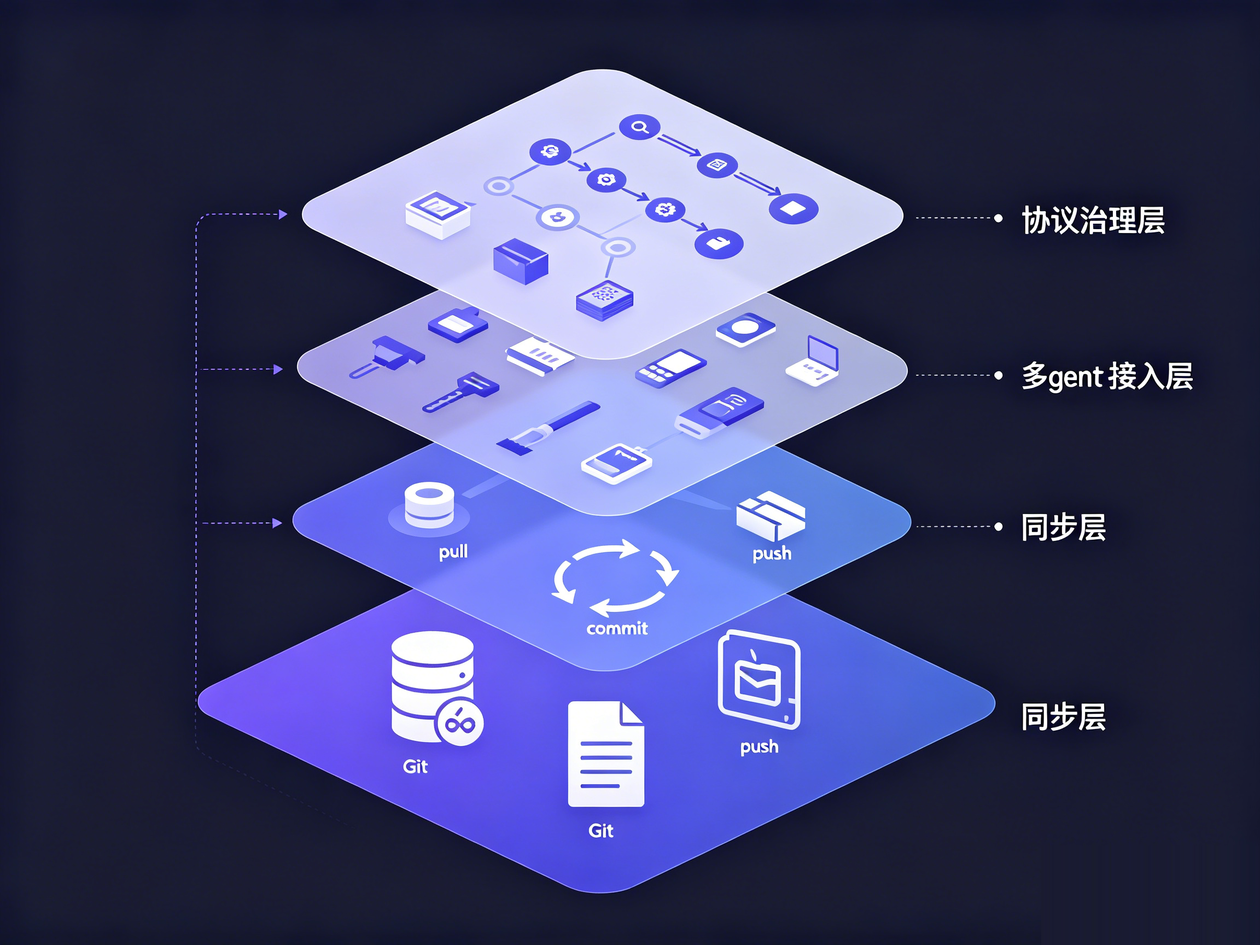
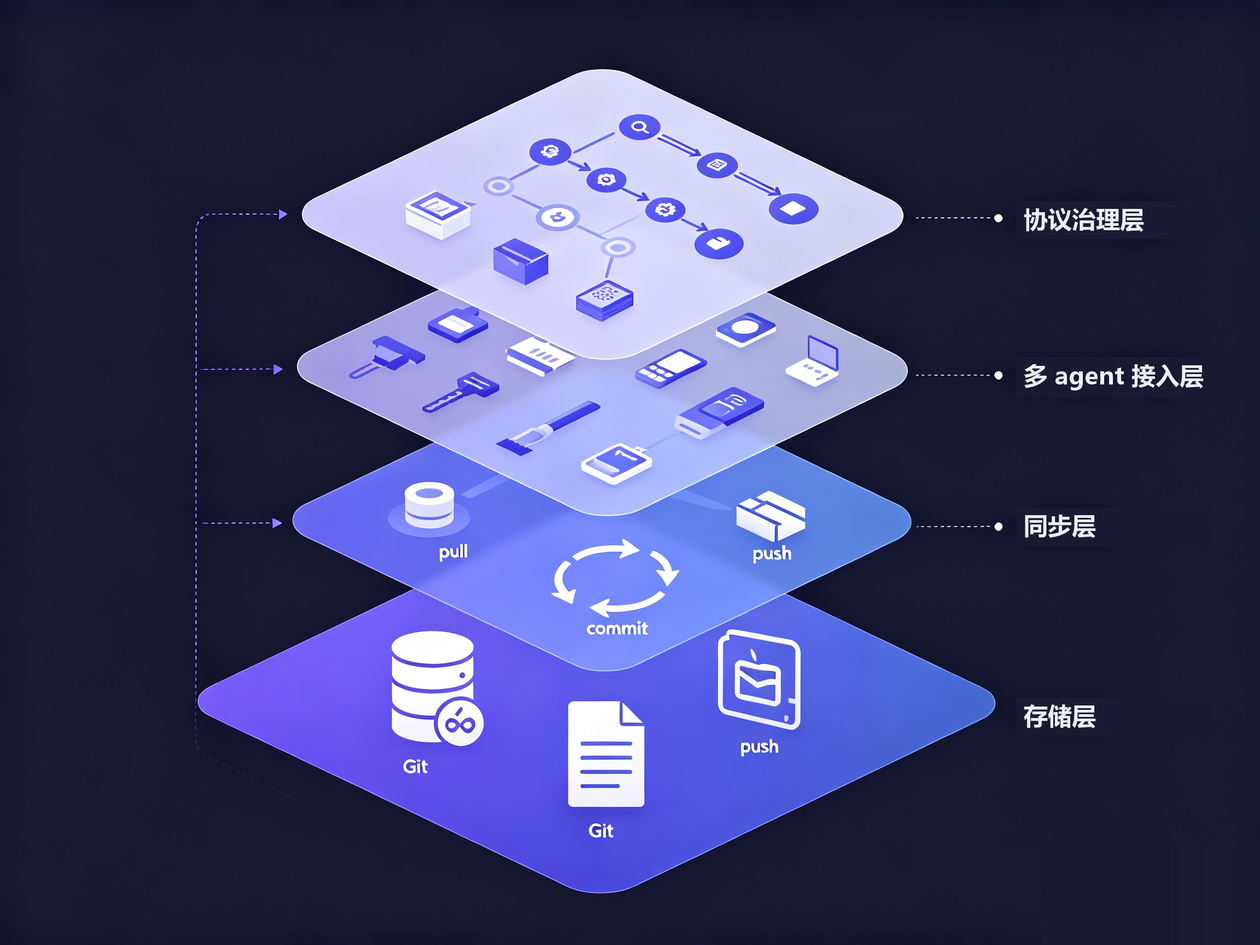
docs(blog): 英文版 4 篇 + Blog 索引 + 修复两张配图文字
- 新增 4 篇英文获客文章(overview/痛点/类别/故事),复用同一组配图
- docs/README.md 与 llms.txt 增加 Blog 索引区,利于收录引流
- 修复 AI 生图文字:架构图底层"同步层"→"存储层"、"多gent"→"多 agent";
  类别封面"协议合换议网络"→"协议网络"

diff --git a/docs/blog/16-agents-one-brain.md b/docs/blog/16-agents-one-brain.md
@@ -1,0 +1,92 @@
+# I gave 16 AI agents one shared brain, using nothing but git
+
+> Candidate titles:
+> - I gave 16 AI agents one shared brain, using nothing but git
+> - No server, no database: I used git to give a swarm of AIs the same memory
+> - Agents on Windows, Mac, Linux, and Android all take notes in the same book
+
+![Four devices arranged in a circle, a glowing brain made of circuitry at the center](images/story-cover-nw.png)
+
+It all started with a gripe.
+
+I'd spent time on Windows getting a project's context just right with Claude Code. Then I turned to my Mac, and Codex over there knew nothing. I had to explain the whole thing again from scratch. Switch to the little Linux box at home, and it was another blank slate. I had four or five machines and agents from several different vendors, and every single one was an amnesiac. I was the guy stuck reciting the same medical history over and over.
+
+The most ridiculous moment: on machine A, I'd had an agent write down "the deploy script for this project has a nasty gotcha." The next day, the agent on machine B went and stepped on that exact same rake, in earnest.
+
+And that's before you factor in that the tools themselves keep changing. These past couple of years there's been a new "current best" model showing up almost every month. I went from Cursor to Claude Code, then tried Codex, then Gemini. Whenever something shipped a new version, I wanted to play with it. And every switch meant re-teaching that project's background and rules all over again. New tool, new model, new computer: my agent was forever stuck on "nice to meet you."
+
+I'd even thought about worse cases. What if one day some tool became unusable because of policy or a regional restriction? What if I had to move everything over to a domestic Chinese model? I didn't want the context I'd worked so hard to build up to be chained to any one tool I didn't control. Switching tools is fine. Teaching it all again from zero is not.
+
+I tried stuffing the memory into the various built-in schemes that come with the tools, and I tried hanging a dedicated memory service off to the side. The problem was they were either locked to one vendor or one machine, or they meant standing up a service, wiring in a database, managing accounts. I just wanted a few agents to share some notes. Why should I have to run a whole backend for that?
+
+Later I sat staring at the `git status` on my screen for a while, and it suddenly clicked. The thing I use every day, the most rock-solid, cross-platform, built-from-birth-to-handle-multi-person-conflict sync tool, was right there in my hand.
+
+Memory is, at its core, a pile of text. And the best home for text is git.
+
+![A filing cabinet where each robot only drops notes into its own drawer, never touching anyone else's](images/story-drawers-nw.png)
+
+## Version one: write the memory as markdown, throw it in a single repo
+
+The idea was almost embarrassingly simple. Open a git repo, fill it with plain markdown, and let that repo be the single source of truth. Every agent pulls before it works, and commits and pushes when it's done. No server, no API, no hosting. Just git.
+
+The moment it worked was genuinely a thrill. On Windows I had an agent write down a decision, switched to the Mac, ran a pull, and Codex read it instantly. Two agents from two different vendors, standing on the same context for the first time.
+
+The thrill didn't last long. A few very practical problems came crawling out.
+
+## Problem 1: with 16 agents all writing, won't they fight?
+
+This was my biggest worry. Right now I've got Windows, macOS, several Linux machines, and even an Android phone, more than 16 agent instances all told. If they're all writing into one repo at the same time, surely git conflicts would be flying everywhere.
+
+The answer, it turns out, is physical isolation. Every machine, every agent, owns only its own directory, and writes only to its own directory.
+
+The path looks like this: `agents/<host>/<agent-id>/`, for example `agents/desktop-rkv5ls4/claude-i5bc/`. Claude on Windows writes to its cell, Codex on the Mac writes to its cell, and nobody touches anybody else's private memory. A conflict requires two people editing the same line, and this layout means they aren't even writing in the same file to begin with.
+
+And if there really is a collision? The protocol hardcodes a rule: in your own directory, conflicts take local; in someone else's directory, conflicts take remote; for the upstream-managed common parts, the rules and the shared memory, take remote. Whoever owns it decides. The machine doesn't have to guess.
+
+## Problem 2: syncing across machines, won't things get lost or collide?
+
+Splitting up the directories isn't enough on its own. When two machines push one right after the other, that little sliver of time in between can still cause trouble.
+
+The thing that handles this is atomic sync on every write. Each time an agent does a Write/Edit, it runs `pull --rebase` before writing, then commits and pushes immediately after, retrying automatically on failure. I'm not typing this out by hand every time; it runs automatically once the hooks are installed.
+
+The effect is that the real race window gets squeezed down to the tiny instant of a single write. I've been using it this long, and losing memory across machines or having two machines collide just hasn't happened again. Installing it is a single line:
+
+```bash
+bash scripts/install/claude.sh
+```
+
+Same goes for codex and gemini. Once the hooks are in, you barely feel the pull / commit / push happening at all.
+
+## Problem 3: the protocol will get upgraded, will my own stuff get wiped out?
+
+This was a hidden risk I only realized later. The protocol itself iterates. How directories are split, how the rules are written, upstream nestwork updates all of it. If I'd forked it, every sync from upstream would mean a manual merge, and one wrong move could wipe out the strategy I'd built up over months, every agent's private memory, the team's shared memory, all of it gone.
+
+What nestwork does is inherit via GitHub's Use this template, not fork. The protocol skeleton is inherited, but your private repo is an independent branch from day one. Upstream updates the protocol through its own update script, which touches the protocol layer and can't touch your `agents/`, `shared/`, or `strategy/`. My own stuff sits safely in its own repo.
+
+"Clone and you're in" means the same thing. A new machine shows up, you clone it down, run the install script, and the agents on that machine automatically join the same brain.
+
+## An unexpectedly handy thing: agents can leave each other notes
+
+I should say a word about the layering. The protocol sets a very rigid priority chain: rules > strategy > shared memory > each agent's private memory > projects > methodology. When there's a conflict, you don't blend the two together; you pick the higher-priority one and drop the other. It's because of this chain that 16 agents don't all run off in their own directions. They're reading the same "constitution."
+
+What genuinely delighted me was the agent mailbox that got added later. Agents can leave each other asynchronous notes, git-native. The agent on machine A finishes a chunk of work and leaves the agent on machine B a line: "I'm done with this part, you take it from here." When B starts up, it picks up the unread message automatically. The whole thing has no message queue and no service. It's just writing a file into the repo and pushing it up. The first time I watched one agent reach out and read a note a colleague had left on another machine, the feeling was pretty surreal.
+
+![Two robots across a phone from each other, an envelope flying along the git line between them, an unread red dot above the receiver's head](images/story-mailbox-nw.png)
+
+As for secrets, I'll admit I hesitated at first, since everything you feed an agent is project insider info. Then I worked it through. nestwork's memory is a private repo I built with Use this template, on my own git from start to finish, with no third party in the loop. For the deeper secrets, I layered on git-crypt on top, encrypting before anything goes into the repo, so even though the repo is hosted on GitHub, what lands there is ciphertext. The data is mine, and so are the keys. That's what made me willing to write the real stuff in.
+
+## You can start this way too
+
+Looking back, the reason this thing works is precisely that it never tried to reinvent anything. Memory is markdown, sync is git, inheritance rides on templates, conflicts are handled by directory isolation. Every piece is old, long-validated stuff. It's just been assembled into a new use.
+
+It's not a storage tool, it's not a hosting service, it needs no server, and it works with markdown-configured agents like Claude Code, Codex CLI, Gemini CLI, Hermes, and OpenClaw. I really am using it every day, across four or five machines and 16 agents.
+
+If you're also sick of reciting the same thing to your agents on every machine:
+
+- GitHub: songth1ef/nestwork, give it a star if you find it interesting
+- Get in: click Use this template on GitHub to inherit the protocol, then clone it down
+- Install: `bash scripts/install/claude.sh` (same for codex / gemini)
+
+Let your agents start taking notes in the same book, starting today.
+
+<!-- story angle: credible-story | humanized | EN -->

diff --git a/docs/blog/nestwork-overview.md b/docs/blog/nestwork-overview.md
@@ -1,0 +1,99 @@
+# nestwork: one shared brain for all your AI agents, across machines and vendors
+
+> Title candidates:
+> - nestwork: one shared brain for all your AI agents
+> - One git repo that holds the memory of every machine and every agent you run
+> - Not another memory database, a protocol for multi-agent collaboration
+
+![nestwork: many agents sharing one brain across devices and vendors](images/nestwork-overview-cover-nw.png)
+
+You have probably lived through this. You brief a project to Claude Code on your laptop, then you switch to your desktop, open Codex, and it knows nothing. So you re-explain the conventions, the background, the traps you already hit.
+
+And that is before you account for tools changing constantly. Almost every month there is a new "current best" model. You went from Cursor to Claude Code, then tried Codex, then Gemini. Sometimes the switch is not even your call: policy, region, account, price, and one day the tool you depend on just stops working for you. Every switch drops your agent back to "nice to meet you."
+
+nestwork exists for exactly this. In one sentence: it turns the memory of all your agents into plain text inside a git repo you own, so they share one brain across machines, across tools, and across vendors.
+
+It is not a tool, not a hosted service, and it needs no server. It is a protocol. Here is everything it does, laid out in one pass.
+
+![nestwork architecture: the git repo layer, sync layer, multi-agent access layer, and protocol governance layer](images/nestwork-overview-architecture-nw.png)
+
+## 1. Memory is just markdown in git
+
+The foundation of nestwork is almost counterintuitively simple: all memory is plain markdown files in a git repo, and that repo is the single source of truth. An agent pulls before it works, then commits and pushes when it is done. No database, no backend, no account to sign up for.
+
+Because memory is plain text, you can open it, edit it, or roll it back at any time with any editor or any git tool. It reads for humans and it reads for agents. How a piece of memory came to be, and when it changed, is right there in the git log.
+
+## 2. One shared memory, across machines and vendors
+
+Since sync rides on a git remote, the agents on your laptop, your desktop, a few Linux boxes, even an Android phone, all live in the same brain as long as they can push. They do not need to sit on the same machine, and nobody has to open a port for anyone.
+
+What it is compatible with is a whole class of agents: Claude Code, Codex CLI, Gemini CLI, Hermes, OpenClaw, and other markdown-configured tools. The same memory reads fine no matter who shows up.
+
+This is exactly what catches the moving-tools problem. Binding your memory to one tool is a bet that the tool never gets retired and never becomes unusable. Plain text bound to git is not picky about tools: the day you want to move wholesale from an overseas tool to a domestic model, the context stays put, and the only thing you swap is the agent reading it.
+
+## 3. Inherit it in one click, and the memory lives in your own repo
+
+Onboarding is git's native tongue. Click Use this template on GitHub and you inherit the whole protocol skeleton; clone it and you are connected.
+
+There is an underrated point here: what you inherit is a private repo of your own. From day one the memory lives in your hands, not parked in some vendor's backend. With a hosted memory service, you hand the context over and it sits in someone else's store; with nestwork, ownership of the data never leaves you.
+
+Inheriting instead of forking has another upside. When upstream updates the protocol, it goes through its own update flow that touches the protocol layer and cannot touch your private memory. The strategy you built up over months, and each agent's memory, will not get wiped by a single upstream sync.
+
+## 4. Private, and encryptable, so you dare to write the real stuff
+
+Putting memory in a private repo is only the first layer. For genuine secrets, you can stack git-crypt on top and encrypt before anything enters the repo. Even if the repo is hosted on GitHub, what lands there is ciphertext; the plaintext is unreadable. The data is yours, and so is the key.
+
+For anyone who wants to feed an agent project internals, internal war stories, or business judgment, this is not a nice-to-have. It is the precondition for daring to use it at all.
+
+## 5. The hard part is "how do a pile of agents not fight"
+
+If this were only "use git to store markdown," it would be a clever little trick. What nestwork actually thought through is the dirty work of many agents on many machines working at the same time.
+
+Write isolation. Every machine and every agent owns, and only writes, its own directory, with a path that looks like this: agents/<host>/<agent-id>/. Nobody writes into the same file as anyone else, so conflicts have nowhere to start. And if a collision does happen, the conflict resolution rules are hardcoded: take local for your own directory, take remote for someone else's directory, take remote for the upstream-managed shared layers. Whoever owns it decides.
+
+Atomic sync. Pull --rebase before every write, commit and push after, with automatic retry on failure. This runs on its own once the hooks are installed, which squeezes the race window down to the single instant of one write, instead of leaving the whole session wide open.
+
+Layered priority and resolution. Memory is ranked: behavior rules > strategy > shared memory > each agent's private memory > projects > methodology. When two instructions conflict, the higher-priority one wins, and you do not blend the two together. It is this chain that keeps a dozen-plus agents behaving consistently, all reading the same "constitution."
+
+Distillation. How do the scattered private observations of each agent settle into facts the whole fleet shares? Through a distillation flow: first a sub-agent reviews for sensitive data, contradictions, and stale entries, then a human confirms, and finally it is merged into shared memory non-destructively, merge and add only, never deleting the original records.
+
+Agents can leave each other notes. There is a built-in git-native mailbox. An agent on machine A finishes a stretch and leaves a line for the agent on machine B: "I'm done with this part, you take it from here," and B picks up the unread note automatically when it starts. No message queue, no service, just write a file into the repo and push it up.
+
+![multiple agents each tending their own square, collaborating in order and leaving each other notes through the mailbox](images/nestwork-overview-coordination-nw.png)
+
+## 6. It is a protocol, so it governs more
+
+Calling it a protocol is not just rhetoric. Beyond storing and syncing, it also lays down a full set of rules for "how to use memory."
+
+Auto-injection at startup. Tools with hooks installed pull automatically at the start of every session and inject the behavior rules, the current strategy, shared memory, this agent's private memory, and the relevant methodology into context together. You do not have to dig through a pile of files by hand.
+
+There are explicit rules for where memory goes. Project conventions and lessons go into the project's own docs, cross-project reusable methodology goes into workflow, the current project's business and decisions go into projects, cross-device protocol goes into the agent's private memory, and stable cross-agent facts go into shared memory. Knowledge has a fixed home, so it does not turn into a mess.
+
+Oversized files split automatically. Any markdown that goes past its line limit gets split by topic into an "index plus sub-files," keeping each file focused so agents retrieve more accurately.
+
+Version governance. The protocol marks its evolution with MAJOR.MINOR, a private instance can pin a version it trusts, and it can also override the default line limit with a local file. It behaves like a spec that iterates, not a static piece of software.
+
+## 7. And there is more (optional, turn it on when you need it)
+
+- If you use claude-mem, nestwork will export its observations at the end of a session and push them along with your memory, giving its notes cross-machine reach too.
+- High-frequency, bulky artifacts like local history are stored on a separate orphan branch per agent, keeping the main branch lean so it does not balloon over time.
+- When you absorb content from an external working directory into nestwork, there is a contract with desensitization rules, so secrets do not get hauled in naked.
+
+## Getting started
+
+Head to GitHub: songth1ef/nestwork. If you find it useful, give it a star first.
+
+```bash
+# 1. Click Use this template on GitHub to create your own private repo
+# 2. Clone it down
+# 3. Install hooks for each tool
+bash scripts/install/claude.sh
+bash scripts/install/codex.sh
+bash scripts/install/gemini.sh
+```
+
+Once that is done, pull / commit / push all run automatically. You use your agents as usual, except this time, switch machines, switch tools, switch models, and they still remember.
+
+Try it for a week on two devices and two tools. The day you change machines, or move from one tool to another, and you open an agent and it picks up yesterday's work mid-sentence, you will get why this matters.
+
+<!-- nestwork overview | EN -->

diff --git a/docs/blog/agent-amnesia-cross-device.md b/docs/blog/agent-amnesia-cross-device.md
@@ -1,0 +1,95 @@
+# Your AI agent forgets everything the moment you switch devices
+
+> Candidate titles:
+> - Your AI agent forgets everything the moment you switch devices
+> - One git repo, 16 agents, one shared notebook
+> - Stop re-explaining context to your agent
+
+![A developer in front of four devices, a confused robot on each screen, question marks floating above all of them](images/amnesia-cover-nw.png)
+
+Last night, on my laptop, I walked Claude Code through a project in full detail. The stack, the naming conventions, the handful of traps we couldn't step on, why we'd given up on a certain approach last time. The conversation was flowing.
+
+This morning I sat down at my desktop, opened Codex, and tried to pick up where I left off. It remembered nothing.
+
+Coding conventions? Explain them again. Project background? Explain it again. "That directory I told you not to touch last time"? It had no idea there was a last time. I sat there typing the whole thing out a second time.
+
+You probably know this scene. Switch machines, switch tools, switch projects, or even just let a few days pass, and your AI assistant acts like it's been wiped clean, politely and completely amnesiac.
+
+And these past couple of years, machines aren't the only thing you've been switching. Almost every month someone ships the "current strongest" model. You're using Cursor and start wanting to try Claude Code; a while later Codex drops a new version and you want to jump again; Gemini updates and you circle back to take another look. Every tool switch means retraining the thing on your project background, your coding conventions, the traps you've already fallen into. Add a new computer on top of that and you're starting from zero again. The tools change, the models change, the machines change, and the only constant is that pile of context you keep having to re-explain, spinning in place.
+
+Sometimes the tool switch isn't even your call. Policy, regional restrictions, accounts, pricing. The day the tool you lean on heavily suddenly stops working, your memory, if it's tied to that tool, goes down with it. Including the day you decide to move everything over to a domestic (for example, a Chinese) model. You want the thing you swap out to be the tool, not another from-scratch teaching session.
+
+## Amnesia is a tax you keep paying
+
+We tend to treat it as a "fine, I'll say it again" kind of nuisance. It's actually a tax.
+
+Re-explaining context every day is a time tax. The lesson Claude Code learned on this machine is completely unknown to Codex on that machine, which is wasted knowledge. The sneakier part is that you can't even remember everything you told it last time, so the agent works off broken context and gets things wrong with total confidence.
+
+It's not that nothing out there tries to "give AI memory." Most of them follow one idea: stand up a memory database, or a hosted memory service, dump the conversation in, and retrieve it when needed. That solves "a single agent on a single machine can't remember things."
+
+But that's not my problem. I'm not holding one agent, I'm holding a pile of them. Claude Code on the laptop, Codex on the desktop, Gemini parked on a server, each keeping its own notes, or unable to share at all. The question was never "where does the memory live." It's how this pile of agents, spread across several machines, can share one memory without stepping on each other.
+
+## A different angle: memory is just a git repo
+
+The first time I saw what nestwork does, I had a small "oh, you can do that?" moment.
+
+It isn't a tool, it isn't a service, it needs no server. It's a git-native protocol for multi-agent memory and collaboration.
+
+The core is counterintuitively simple: all memory is plain markdown in a git repo. That repo is the single source of truth. The agent pulls before it works, commits and pushes when it's done. Switch machines? Clone it and you're connected. Switch tools? As long as it's a markdown-config tool (Claude Code, Codex CLI, Gemini CLI, Hermes, OpenClaw all qualify), it reads the same repo.
+
+What the laptop learned gets pushed up, the desktop pulls it down, and Codex instantly "remembers." Not because some cloud is relaying in the middle, but because they were reading and writing the same git repo all along.
+
+This is exactly what git does: share a pile of text files across people, machines, and versions. nestwork just noticed that an agent's memory is, at bottom, a pile of text files that should be shared. So why not use git directly as the transport layer.
+
+![A central git brain, devices around it connected by pull/push, all sharing the same brain](images/amnesia-brain-nw.png)
+
+## What it really solves is "how a pile of agents work together"
+
+If it were just "use git to store markdown," that would only be a clever little trick. What kept me around is that it thought through the dirty work of multi-agent collaboration.
+
+Cross-machine means actually cross-machine. It uses a git remote, so your laptop, your desktop, a few Linux boxes, even an agent on Android, as long as it can push, are inside the same brain. No more crowding into the same directory on the same machine and waiting in line.
+
+Multiple agents writing at once, without colliding. Every machine, every agent has its own directory and only writes its own. When there's a conflict the rule is hard: your own directory takes local, someone else's directory takes remote. Everyone clears their own doorstep, so by design they never overwrite each other.
+
+Writes are atomic. Before each write it does a pull --rebase, then commits and pushes when done, with automatic retry on failure. The race window is squeezed down to the instant of a single write, instead of staying open for the whole session.
+
+Conflicts get an arbiter, and it doesn't split the difference. Memory is layered, with priority hard-coded: behavior rules > strategy > shared memory > each agent's private memory > projects > methodology. When two instructions clash, the higher-priority one wins, and you're not allowed to mash the two together. The "compromise instruction" you'd get from mashing them is usually the worst trap, so nestwork bans it outright.
+
+Memory gets distilled. The scattered private observations of each agent get merged into shared memory. This step isn't crude: it first sends a sub-agent to review, checking for sensitive information, factual errors, and contradictions, then hands it to a human to confirm, and it only merges and only adds, never deleting your original records.
+
+Agents can also leave each other messages. There's a built-in git-native mailbox, where one agent leaves another an asynchronous note, and the other picks up unread messages automatically when it starts. For the first time, agents across machines have a "you've got mail."
+
+## Your memory, in your own repo
+
+There's one more thing that I kept finding more important the more I thought about it: this memory is in your own hands from start to finish.
+
+With a hosted memory service, your context lives on someone else's server. nestwork is different. With Use this template you create your own private repo, and the memory sits inside it. GitHub or a self-hosted Git, the repo is yours, the data is yours. If that's still not enough, you can layer git-crypt on top and encrypt the memory before it ever enters the repo, so even whoever hosts the repo gets nothing but ciphertext and can't read the plaintext.
+
+For anyone feeding project background, internal traps, and business judgment to an agent, this isn't a nice-to-have, it's the precondition for daring to use it at all.
+
+![A locked git repo wrapped in a shield halo, a hand holding a key](images/amnesia-encrypt-nw.png)
+
+## This isn't a slide deck, the author uses it every day
+
+The author himself runs more than 16 agent instances across Windows, macOS, several Linux boxes, and Android, all sharing the same nestwork memory. This protocol wasn't designed to be shown off, it's something he can't get through a day without.
+
+There's a detail I really like too: you get on board through GitHub's Use this template, not a fork. After a fork, when upstream updates it's easy to drag your private data into the mix; template inheritance gives you the protocol skeleton, but the memory stays your own private stuff in your own repo, untouchable by upstream updates.
+
+## Three steps to plug memory into your agent
+
+Search GitHub for songth1ef/nestwork, drop a star while you're there so it's easy to find later.
+
+Use Use this template to create your own private repo, clone it, and install the hooks for your tool:
+
+```bash
+bash scripts/install/claude.sh
+# Codex and Gemini work the same way
+# bash scripts/install/codex.sh
+# bash scripts/install/gemini.sh
+```
+
+Once it's installed, the pull / commit / push syncing runs automatically, and you use your agent exactly the way you always did. Except this time, when you switch machines or switch tools, it remembers.
+
+Try it on two devices and two tools for a week. The day you switch machines, open the agent, and it picks up yesterday's work without missing a beat, you'll get it.
+
+<!-- pain-point angle | humanized | zh | EN -->

diff --git a/docs/blog/memory-is-a-protocol-problem.md b/docs/blog/memory-is-a-protocol-problem.md
@@ -1,0 +1,78 @@
+# AI Agent Memory Isn't a Database Problem, It's a Protocol Problem
+
+> Candidate titles:
+> - AI Agent Memory Isn't a Database Problem, It's a Protocol Problem
+> - When Multiple Agents Work Together, the Hard Part Was Never "Where to Store Memory"
+> - 16 Agents Sharing One Memory Need a Protocol, Not Another Database
+
+![Not a database but a protocol: a database on the left, a protocol network on the right](images/memory-protocol-cover-nw.png)
+
+Almost every memory solution built for AI agents answers the same question: where does memory live, and how do you fetch it back. Vector stores, knowledge graphs, hosted memory services. The routes differ, but the core is identical. They all treat memory as a storage-plus-retrieval problem.
+
+For a single agent, that assumption holds up fine. One agent, one machine, one context. Store it accurately, pull it back reliably, and the job is done.
+
+But the moment you cross a certain line, running several agents at once, across multiple machines, across multiple vendors, the nature of the problem changes.
+
+## What Actually Blocks You Isn't "Where to Store It"
+
+Picture a scenario that isn't even extreme. You run Claude Code on Windows, Codex CLI on macOS, Gemini on two Linux boxes, and one more on your phone. In theory they're supposed to "share memory."
+
+Here's what you actually run into. Agent A just wrote down a conclusion, but Agent B is still working off a version from three hours ago, and both think they're right. Who's authoritative? Two machines edit the same memory file at almost the same instant. How do you sync, and how do you not overwrite each other? A throwaway debugging note: should every agent see it and get dragged off course by it, or not? What should be shared, and what should stay private?
+
+Notice that not one of these is a "where to store it, how to retrieve it" question. They're about authority, synchronization, concurrency, and boundaries. These are protocol-level problems. No vector search, however fast, and no semantic recall, however clever, solves "two agents write at the same time, whose write wins." A database manages data. It can't manage collaboration.
+
+nestwork aims straight at that gap. It isn't another memory database. It's a collaboration and governance protocol built for multiple agents.
+
+![Four agents writing on the same sheet of paper at once, their handwriting crossing and colliding](images/memory-protocol-conflict-nw.png)
+
+## What It Looks Like: Git-Native, Plain Markdown, No Server
+
+The form nestwork takes is almost counterintuitively simple. Memory is just plain markdown in a git repo, and that repo is the single source of truth. No server, no hosted backend, no SaaS to sign up for. Agents sync through pull / commit / push, and the git remote is the transport layer. That means cross-machine sync is genuinely cross-machine, not sync inside some cloud tenant.
+
+Onboarding is git's native tongue too. Use GitHub's Use this template to inherit the entire protocol, and you're connected the moment you clone. There's an underrated benefit here: what you inherit is your own private repo. Your memory grows in your hands from day one, instead of sitting in some vendor's backend. For sensitive content you can layer git-crypt on top, so it's encrypted on the way in and the repo host only ever sees ciphertext. Inheriting rather than forking also means that when upstream updates the protocol, it never touches your private data.
+
+A hosted memory service can't give you this. Once you hand your context over, it lives in someone else's database. One of the upsides of being git-native is that ownership of the data never leaves you, start to finish.
+
+What it's compatible with is a whole class of agents. Claude Code, Codex CLI, Gemini CLI, Hermes, OpenClaw, all of these markdown-configured agents can plug into the same memory.
+
+That matters a lot right now. There's a new "best model ever" practically every month. You're on Cursor today, you want to try Claude Code tomorrow, and the day after that Codex or Gemini ships an update. Tying your memory to one tool is betting that the tool never gets left behind.
+
+And it's not just about getting left behind. Policy, regional restrictions, accounts, pricing, any one of these can make a tool you can't live without today suddenly unusable one day. When that happens, the deeper your memory is tied in, the more it hurts to move. Plain text bound to git is tool-agnostic. Whoever comes, whoever goes, the memory is still there. The day you need to switch wholesale from an overseas tool to a domestic model, your context stays exactly where it is. The only thing that changes is the agent reading it.
+
+## Why Call It a Protocol and Not a Tool
+
+Calling it a protocol isn't rhetoric. What holds up that label is a set of concrete mechanisms, each one answering a question the database doesn't.
+
+Layered priority plus conflict adjudication. Memory is layered: behavior rules > strategy > shared memory > each agent's private memory > projects > methodology. When two instructions conflict, the rule is hard: take the higher-priority one, no splitting the difference and merging the two into mush. This is governance. It's the explicit answer to "who's authoritative."
+
+Write permissions isolated per machine and per agent. Each agent writes only its own directory. The moment a pull hits a conflict, the resolution is deterministic: take local for your own directory, take remote for someone else's, take remote for upstream-managed layers. Concurrent writers don't fight at the root.
+
+Every write is an atomic sync. Pull --rebase before writing, commit and push with retry after. The race window is squeezed down to the instant of a single write, instead of staying open across an entire session.
+
+Distillation. How do several agents' separate private memories settle into facts everyone shares? Through a distillation flow: first dispatch a sub-agent to review, checking for sensitive information, contradictions, and stale entries, then hand it to a human to confirm, and finally merge it non-destructively into shared memory, only combining and only adding, never deleting anyone else's observations.
+
+Agent mailbox. Agents can do more than read the same shared memory. They can leave messages for each other, a git-native form of asynchronous communication. Collaboration goes from "everyone staring at the same whiteboard" up to "able to talk point to point."
+
+Protocol version governance. Protocol evolution is marked with MAJOR.MINOR, and limits can even be overridden per instance. It behaves like a spec that iterates, not a static software package.
+
+![A pyramid of layered priorities, the top layer wearing a crown to show the rules rank highest](images/memory-protocol-layers-nw.png)
+
+## People Are Actually Running It
+
+The most convincing thing isn't the list of mechanisms. It's that the author is dogfooding it himself. Windows, macOS, several Linux boxes, Android, more than 16 agent instances, all sharing the same memory. It isn't a demo repo. It's a real workload in daily use.
+
+## A Different Frame
+
+When you have just one agent, what you need might genuinely be a good memory store. But the moment you start having multiple agents, across multiple machines, across multiple vendors, work together, sooner or later you'll find the bottleneck isn't "where to store it, how to retrieve it." It's "who's authoritative, how to sync, how not to overwrite each other."
+
+At that moment, what you need isn't another database. It's a protocol.
+
+## Getting Started
+
+```bash
+bash scripts/install/claude.sh   # codex / gemini work the same way
+```
+
+GitHub: songth1ef/nestwork. If this framework speaks to you, give it a star. If you want to run it right away, use Use this template to inherit the protocol, and you're connected the moment you clone.
+
+<!-- category-creation angle | humanized | EN -->

diff --git a/docs/README.md b/docs/README.md
@@ -19,6 +19,13 @@ These docs are designed for the GitHub repository itself, not for a separate web
 - [Agent memory landscape: where nestwork fits](comparisons/agent-memory-landscape.md)
 - [nestwork vs claude-mem](comparisons/claude-mem.md)
 
+## Blog
+
+- [What is nestwork: a shared brain for all your AI agents](blog/nestwork-overview.md) ([中文](blog/nestwork-overview.zh.md))
+- [Your AI agent forgets everything when you switch devices](blog/agent-amnesia-cross-device.md) ([中文](blog/agent-amnesia-cross-device.zh.md))
+- [Agent memory is not a database problem, it is a protocol problem](blog/memory-is-a-protocol-problem.md) ([中文](blog/memory-is-a-protocol-problem.zh.md))
+- [I gave 16 AI agents one shared brain using only git](blog/16-agents-one-brain.md) ([中文](blog/16-agents-one-brain.zh.md))
+
 ## Core answer
 
 nestwork is a git-native memory protocol for AI coding agents. It helps Claude Code, Codex CLI, Gemini CLI, and other agents share persistent memory and shared context across sessions and machines without a server.
